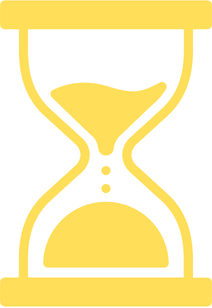
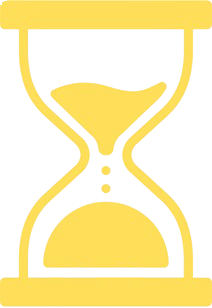
Eliminar seccion de clientes del home y su CSS

Changed region(s): [[0.0283, 0.9643, 0.9906, 1.0], [0.0, 0.0, 0.0849, 0.0292]]

diff --git a/styles.css b/styles.css
@@ -163,11 +163,6 @@ ul{list-style:none}
 .miembro .links a svg{width:15px;height:15px;display:block}
 .miembro .links a:hover{background:var(--rojo);border-color:var(--rojo);color:#fff}
 
-/* Clientes */
-.grid-clientes{display:grid;grid-template-columns:repeat(4,1fr);gap:18px}
-.grid-clientes div{background:#f6f6f6;border-radius:8px;min-height:110px;display:flex;align-items:center;justify-content:center;color:#a5a5a5;font-weight:800;letter-spacing:1px;border:1px dashed #ccc;transition:.25s}
-.grid-clientes div:hover{background:#fff;border-color:var(--rojo);color:var(--rojo)}
-
 /* ===== FOOTER ===== */
 .footer{background:#000;color:#b3b3b3;padding:58px 0 0}
 .footer-grid{display:grid;grid-template-columns:1.3fr 1fr 1fr;gap:36px}
@@ -248,7 +243,6 @@ ul{list-style:none}
   .grid-proyectos,.grid-equipo{grid-template-columns:1fr 1fr}
   .grid-cards{grid-template-columns:1fr 1fr}
   .grid-reels{grid-template-columns:repeat(3,1fr)}
-  .grid-clientes{grid-template-columns:1fr 1fr}
   .cont-grid{grid-template-columns:1fr !important}
   .nav,.social{display:none}
   .btn-menu{display:block}

diff --git a/index.html b/index.html
@@ -266,15 +266,6 @@
   </div>
 </div></section>
 
-<!-- ============ CLIENTES ============ -->
-<section class="seccion" style="padding-top:0"><div class="container">
-  <div class="seccion-titulo"><h2><span class="titulo-linea">Clientes</span></h2><p>Con quién trabajamos.</p></div>
-  <div class="grid-clientes">
-    <div>CLIENTE 1</div><div>CLIENTE 2</div><div>CLIENTE 3</div><div>CLIENTE 4</div>
-    <div>CLIENTE 5</div><div>CLIENTE 6</div><div>CLIENTE 7</div><div>CLIENTE 8</div>
-  </div>
-</div></section>
-
 <!-- ============ FOOTER ============ -->
 <footer class="footer"><div class="container footer-grid">
   <div>
